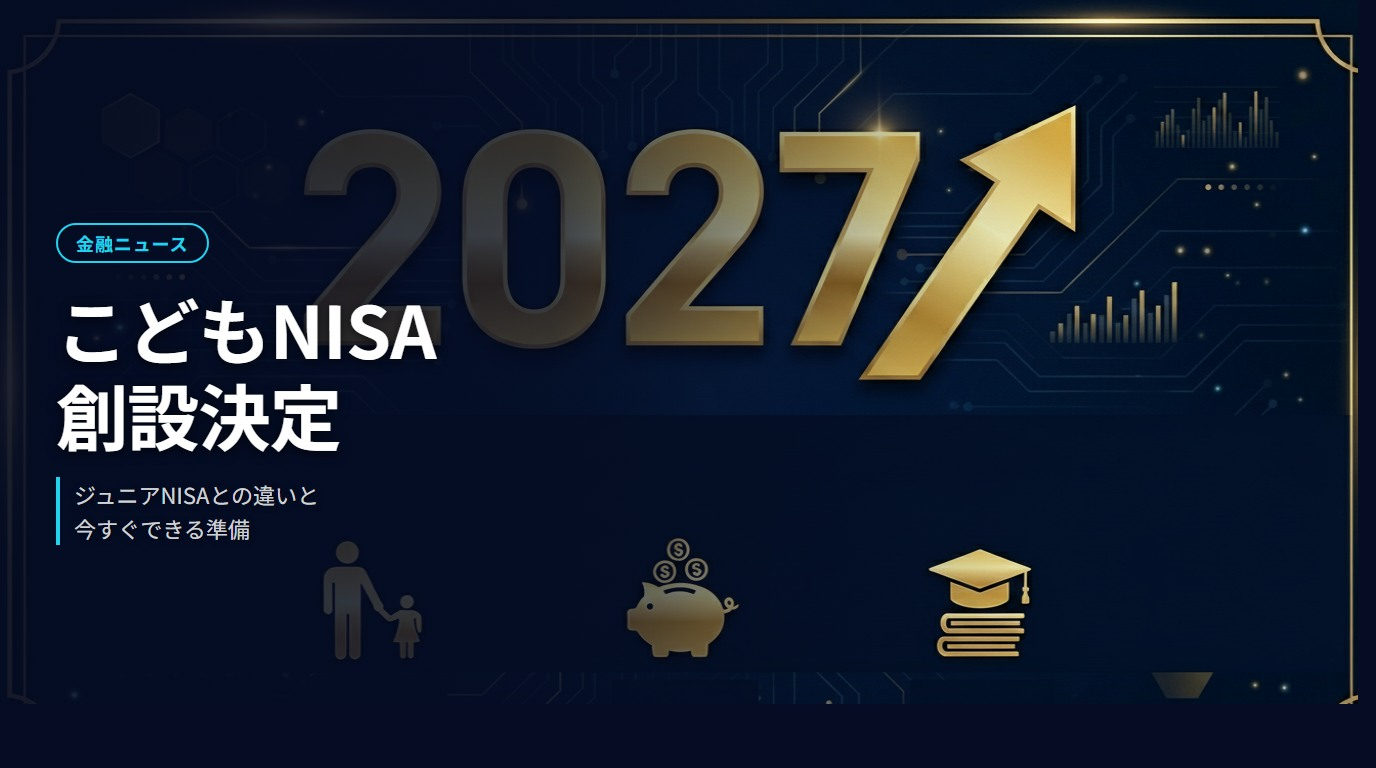
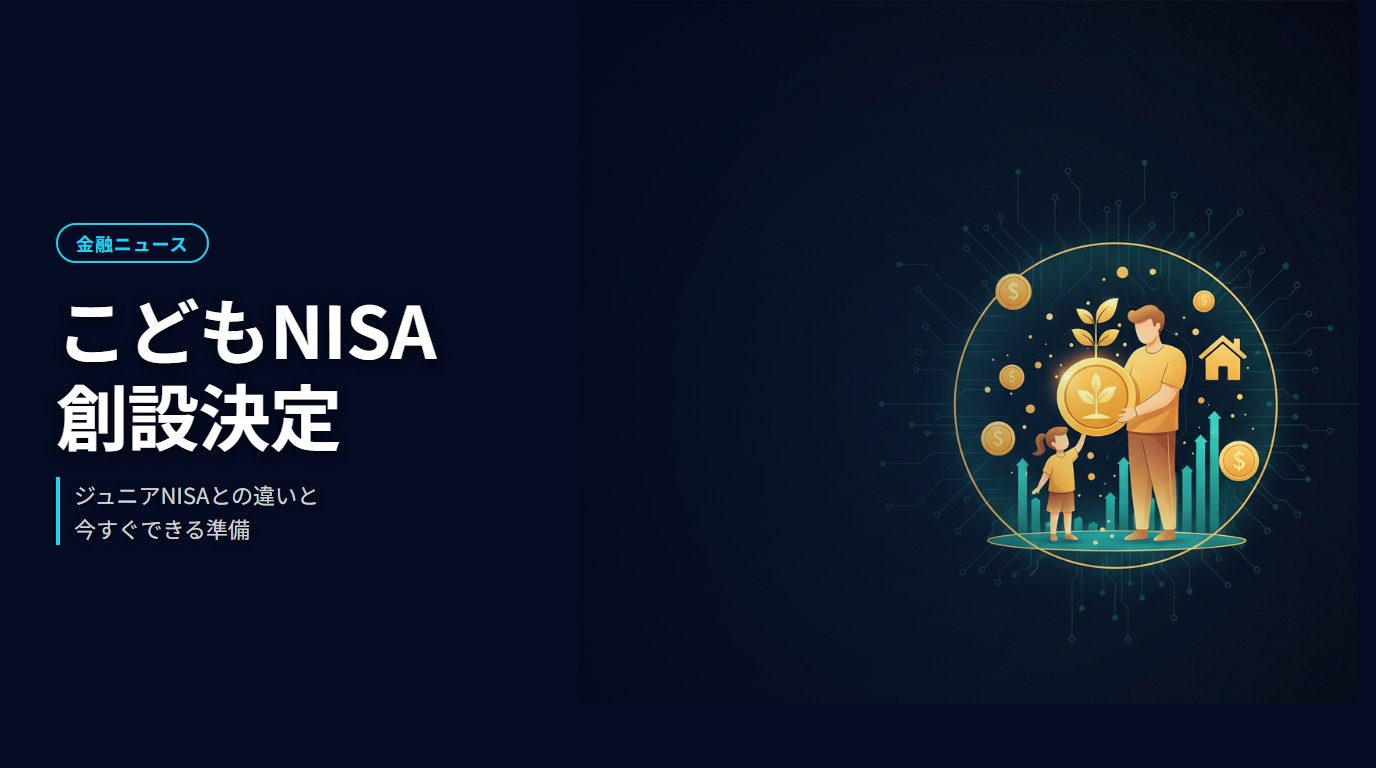
fix(thumb): redesign kodomo-nisa thumbnail with illustration-focused style
Replace text-heavy base image with parent-child illustration (coins, growth
chart, house icons). Dark navy gradient covers left for clear title overlay,
illustration visible on right side.

diff --git a/tmp-diagram/thumb-kodomo-nisa-2027.html b/tmp-diagram/thumb-kodomo-nisa-2027.html
@@ -13,13 +13,14 @@
     background: #050c23;
   }
 
-  /* Chrome headlessが底辺を約20px切るため body=800px で撮影後に上768pxをクロップ */
-  .bg-img {
+  /* 背景：イラストを右寄せで表示、左はネイビーで埋まる */
+  .bg {
     position: absolute;
-    left: 0;
-    top: 0;
-    width: 1376px;
-    height: 768px;
+    inset: 0;
+    background-image: url('file:///C:/Users/oui_k/OneDrive/finlab-se/static/images/thumb-kodomo-nisa-2027-base-v2.png');
+    background-size: auto 100%;
+    background-position: right center;
+    background-repeat: no-repeat;
   }
 
   /* 左側グラデーションオーバーレイ（テキスト可読性確保） */
@@ -31,10 +32,11 @@
     height: 768px;
     background: linear-gradient(
       to right,
-      rgba(5, 12, 35, 0.90) 0%,
-      rgba(5, 12, 35, 0.78) 40%,
-      rgba(5, 12, 35, 0.20) 65%,
-      transparent 80%
+      rgba(5, 12, 35, 1.0) 0%,
+      rgba(5, 12, 35, 0.95) 38%,
+      rgba(5, 12, 35, 0.50) 58%,
+      rgba(5, 12, 35, 0.05) 78%,
+      transparent 90%
     );
   }
 
@@ -90,7 +92,7 @@
 </style>
 </head>
 <body>
-  <img class="bg-img" src="file:///C:/Users/oui_k/OneDrive/finlab-se/static/images/thumb-kodomo-nisa-2027-base.png">
+  <div class="bg"></div>
   <div class="overlay"></div>
   <div class="text-area">
     <span class="badge">金融ニュース</span>
